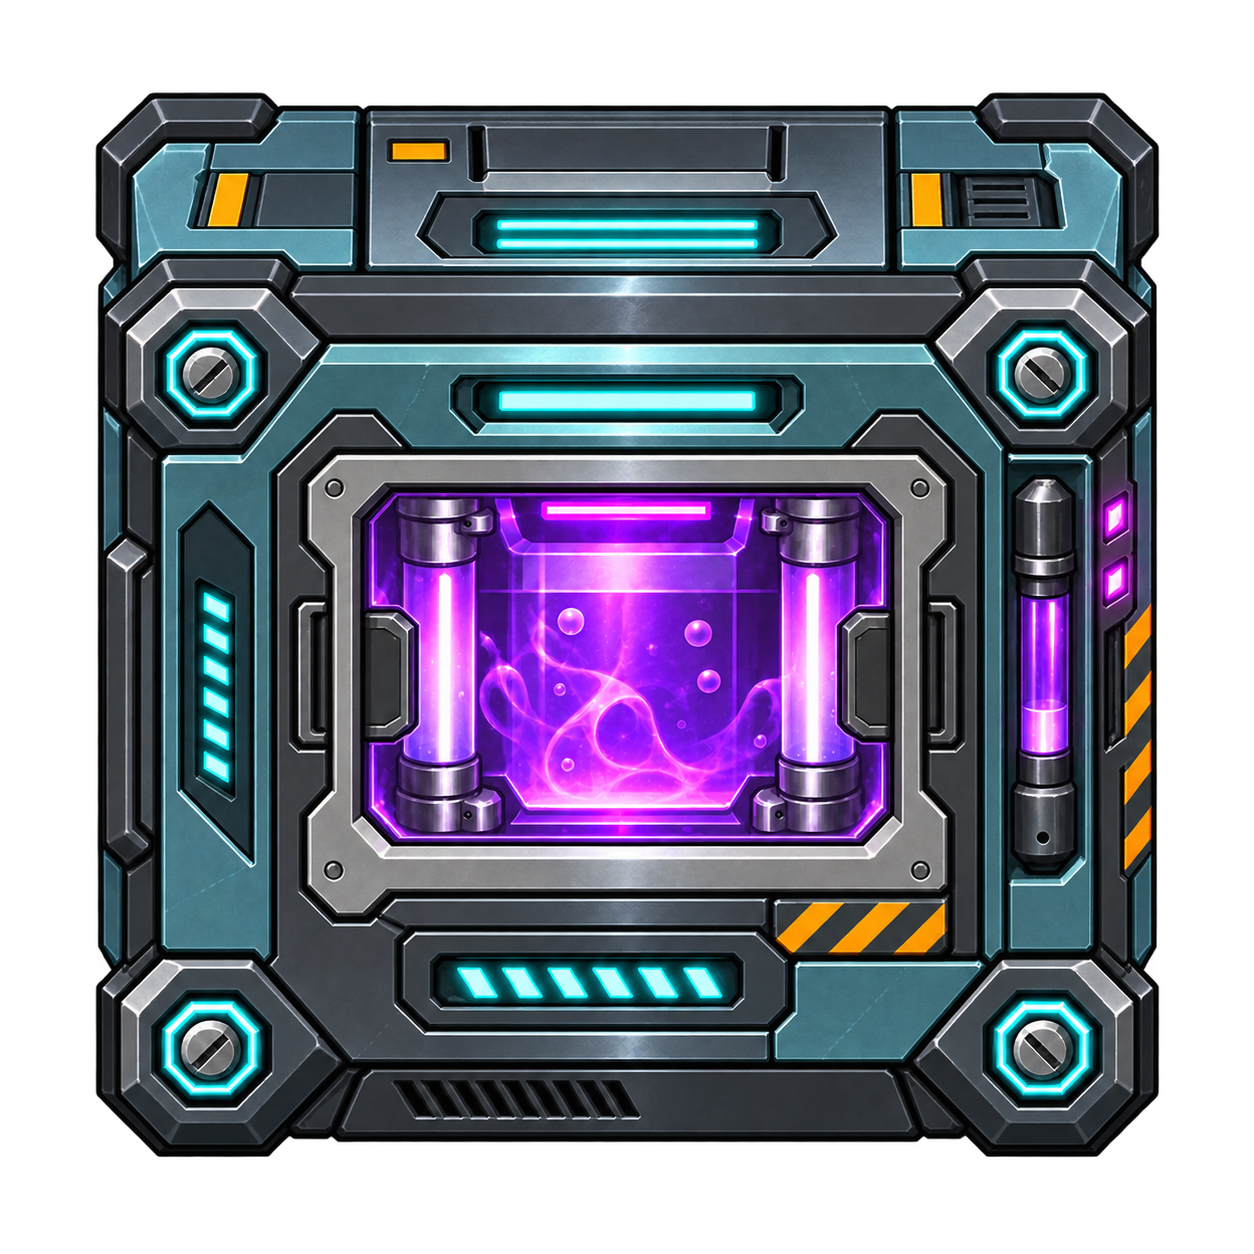
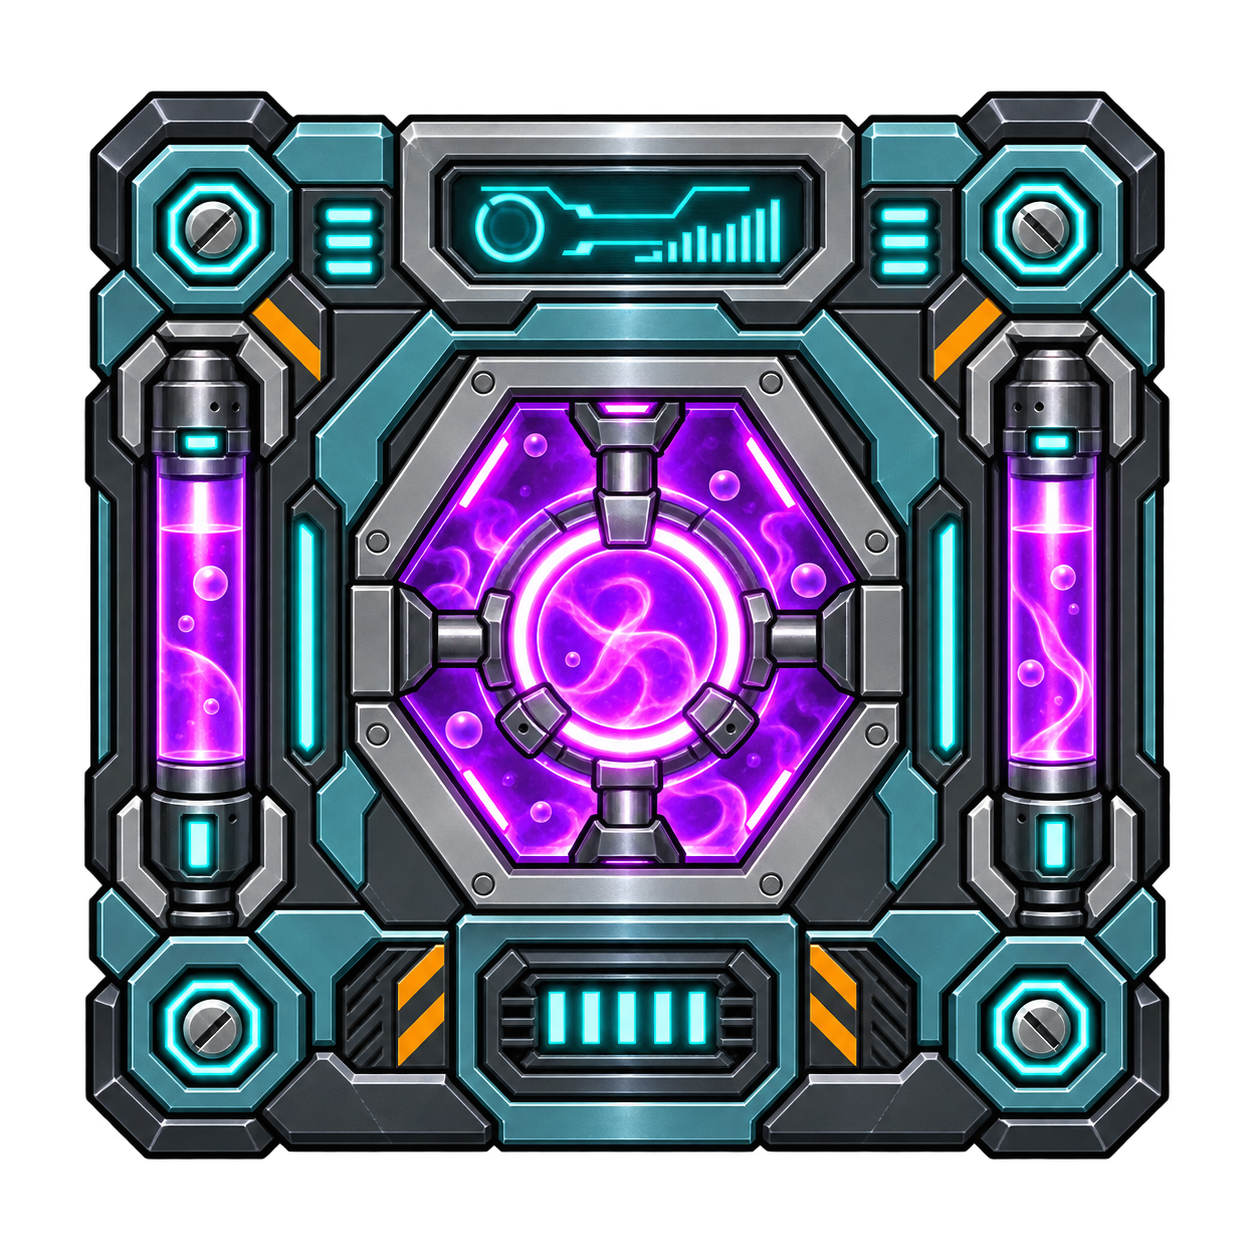
Rename alchemy device to 炼药器 and document item art prompts

diff --git a/docs/game-design/道具生成提示词.md b/docs/game-design/道具生成提示词.md
@@ -1,0 +1,61 @@
+# 道具生成提示词
+
+本文件是经营页、探索页和设备栏道具图标的统一生成参考。生成或替换道具图片时，先选择对应类别的提示词，再补充物品本身的形状、颜色和占格尺寸。最终资源必须放入 `assets/`，并由 `scripts/item_art.gd` 统一加载。
+
+## 通用要求
+
+- 使用内置 `imagegen`，输出真实透明背景的 RGBA PNG。
+- 只生成一个独立物品，主体居中，保持清晰剪影；不生成文字、Logo、水印、场景、人物或手。
+- 图标在 48–96 px 的游戏显示尺寸下仍要能认出主要特征。
+- 目标画布按 96 px/格处理，主体最大填充约 94%，保留透明安全边距。
+- 处理时去除 alpha 小于 12 的生成雾边，不把网格、描边或 UI 文字烘焙进 PNG；运行时描边由 `scripts/item_art.gd` 统一绘制。
+- 生成前确认未旋转占格尺寸；长剑、材料、食物、设备等按照 `assets/items/generation.json` 和本项目物品图鉴的尺寸输出。
+
+## 普通异世界道具
+
+适用于矿石、草药、果实、食物、药剂、背包等自然手工材质道具。当前批次为 `ordinary-fantasy-v2`。
+
+```text
+Standalone ordinary otherworld fantasy game item icon; clean Japanese anime 2D illustration using large graphic color blocks, stable crisp linework, grouped shadows, and a few restrained highlights; natural handmade materials appropriate to the object, such as glass, cork, brass, cloth, leather, wood, baked bread, raw boneless meat, cooked steak, stone, ore and plant matter; clear readable silhouette at gameplay size; centered single object; genuine transparent alpha background; no text, no logo, no watermark, no grid.
+```
+
+根据物品类型补充材质和辨识特征，例如：矿石的晶纹、药剂的液体颜色、草药的叶片层次、面包的烘烤切面、肉类的无骨肉块轮廓。避免为了增加细节而加入密集纹理、雾边或无关装饰。
+
+```text
+Avoid: photorealistic photography, cyberpunk, sci-fi, modern industrial machinery, Y2K hardware, excessive neon, medieval architecture, dirty texture, grain, film grain, painterly texture, watercolor, sketch, blur, depth of field, text artifacts, watermark, extra objects, characters, hands, scenery.
+```
+
+## 科幻设备道具
+
+适用于炼药器和工作台等设备图标。设备图标沿用交易页的绝区零工业 UI 气质，不使用普通道具的木材、黄铜器皿或中世纪锅炉造型。
+
+```text
+Square futuristic urban action RPG machine item icon, polished hard-surface 2D game asset, dark graphite and gunmetal panels, crisp cel-shaded planes, stable hard-surface linework, restrained cyan status lights and orange safety accents, compact modular machine with reinforced corner bolts, vents, panel seams and machined bevels, one isolated object, centered, genuine transparent alpha background, no text, no logo, no watermark.
+```
+
+### 视角与构图（必须遵守）
+
+设备必须使用**完全正面正交视角**：机器正面正对镜头，正面居中且左右对称；只显示正面，不显示顶部、左侧或右侧面；所有外轮廓边保持水平或垂直，不使用等轴、三分之四、透视汇聚或倾斜镜头。机器保持接近正方形的方形轮廓，并在画布四周保留透明边距。
+
+### 工作台分支
+
+```text
+Front-facing square fabrication machine, orange illuminated processing hatch centered on the front panel, orange warning chevrons, cyan horizontal status bars, graphite black and silver metal, symmetrical reinforced corner plates and vents, fully orthographic head-on view, no visible top or side faces.
+```
+
+### 炼药器分支
+
+```text
+Front-facing square alchemy processor, centered sealed inspection chamber with violet chemical energy glow, cyan status bars, small magenta indicators, restrained orange warning stripes, teal gunmetal and graphite panels, symmetrical reinforced corner plates and vents, fully orthographic head-on view, no visible top or side faces, no glass retort or cauldron.
+```
+
+```text
+Avoid: isometric view, three-quarter view, side-dominant perspective, visible top face, visible side face, fisheye distortion, tilted camera, medieval fantasy, wooden workbench, anvil, hammer, brass filigree, cauldron, glass retort, exposed flame, long external pipes, text, logo, watermark, scenery, characters.
+```
+
+## 项目资源与验收
+
+- 普通道具生成记录：`assets/items/generation.json`。
+- 普通道具运行目录：`assets/items/candidates/generated/`；旧批次归档在 `assets/items/archive/`。
+- 当前设备图标：`assets/items/workbench/workbench-machine.png`、`assets/items/workbench/alembic-machine.png`。
+- 生成完成后检查 RGBA 透明角、主体是否贴边、正面是否对称，以及在物品栏小尺寸显示时是否仍能辨认。

diff --git a/README.md b/README.md
@@ -37,9 +37,9 @@
 - 每位顾客带有 100–200 G 的当前资金上限，交易面板显示剩余资金，出售结算不会超过顾客可支付金额。
 - 普通成功操作（支付、结束交易、撤回物品）不弹角落提示；只有错误操作、空间/资金不足和必要指引才显示。玩家出售的物品会移到顾客格子，玩家买入的物品保留在柜台并标记为已支付，需手动拖回库存。顾客仍有预算时交易面板保持打开，并询问“还有没有更多货？”。
 - 买入时检查金币和仓库空间；失败不扣钱、不丢物品；撤回优先恢复原位置。
-- 商品包含材料、食物、矿石、燃料、武器、药剂及杂物；烹饪锅、炼药锅和工作台是占用仓库格子的设备道具。
-- 双击设备打开可拖动窗口（单击仍兼容），工作台、炼药锅、烹饪锅可同时独立打开。烹饪锅保留 8×5 格，隔天将兽肉制成烤肉。
-- 炼药锅（内部仍用 `alembic` ID）分为材料区 8×8、产出区 4×8，底部燃料区 12×2。仅按全部材料的种类、数量精确匹配，与位置、旋转和放入顺序无关；每晚消耗一份完整组合及一份燃料；史莱姆粘液、古藤木分别产出1、2瓶（废水同样按燃料计算数量）。整批成品放不下时不消耗。
+- 商品包含材料、食物、矿石、燃料、武器、药剂及杂物；烹饪锅、炼药器和工作台是占用仓库格子的设备道具。
+- 双击设备打开可拖动窗口（单击仍兼容），工作台、炼药器、烹饪锅可同时独立打开。烹饪锅保留 8×5 格，隔天将兽肉制成烤肉。
+- 炼药器（内部仍用 `alembic` ID）分为材料区 8×8、产出区 4×8，底部燃料区 12×2。仅按全部材料的种类、数量精确匹配，与位置、旋转和放入顺序无关；每晚消耗一份完整组合及一份燃料；史莱姆粘液、古藤木分别产出1、2瓶（废水同样按燃料计算数量）。整批成品放不下时不消耗。
 - 当前两条已知炼药配方：月光草×2→防护药剂；月光草×1＋绯红果×2→力量药剂。图纸仅供查看，不提供摆放引导。未匹配已知配方的组合，产出区与悬浮提示均只显示“？？？”，次日消耗材料生成废水；空锅不生产，产出空间不足不消耗。废水没有药效，不能再次投入炼药。
 - 炼药规则及窗口验证：`godot --headless --path . --script tests/test_alchemy.gd`。移除 `--headless` 并追加 `-- --capture` 可输出炼药窗口截图。
 - 工作台初始赠送一台，附三块赤铜矿和一份史莱姆粘液。分为左侧燃料 4×8、中间材料 8×8、右侧产出 4×8；矿石保留 2×2 占格。每晚处理一份完整配方，产出一件装备。
@@ -82,7 +82,7 @@ godot --path . -- --smoke-ui
 
 柜台物理预览：`godot --path . --fixed-fps 60 --script tests/preview_counter_physics.gd`，输出 `docs/testing/previews/柜台物理.png`；依次投放七件物品，展示连续台面上的轮廓碰撞、自然倾倒与堆叠。
 
-美术由内置 imagegen 生成，提示词和资产路径见 `docs/game-design/美术资源.md`。废弃的一体式概念图仅归档于 `docs/game-design/concepts/`，不参与游戏运行。
+美术由内置 imagegen 生成，场景提示词见 `docs/game-design/玩家主世界画风提示词.md`，道具图标提示词见 `docs/game-design/道具生成提示词.md`，资产路径见 `docs/game-design/美术资源.md`。废弃的一体式概念图仅归档于 `docs/game-design/concepts/`，不参与游戏运行。
 
 玩家主世界的统一画风提示词见 `docs/game-design/玩家主世界画风提示词.md`；生成新的主世界场景时应复用其中的正面与负面提示词。
 

diff --git a/docs/game-design/美术资源.md b/docs/game-design/美术资源.md
@@ -1,6 +1,6 @@
 # 分层美术资源
 
-玩家主世界统一画风提示词：`docs/game-design/玩家主世界画风提示词.md`。主世界及其室内场景生成时复用该文件的风格、正面和负面提示词；交易车的金属室内是当前场景的具体材质落地。
+玩家主世界统一画风提示词：`docs/game-design/玩家主世界画风提示词.md`。主世界及其室内场景生成时复用该文件的风格、正面和负面提示词；道具图标生成规则见 `docs/game-design/道具生成提示词.md`；交易车的金属室内是当前场景的具体材质落地。
 
 工具：内置 imagegen。最终资源保存在项目 assets 内；原始生成文件保留在 Codex generated_images 中。
 
@@ -40,11 +40,11 @@ Game asset: isolated standalone 2D anime visual novel character sprite, a friend
 
 经营页与探索页的 14 种道具已改为独立 RGBA PNG，保存在 assets/items/，并由 scripts/item_art.gd 统一加载。道具占格按实物比例调整：长剑与强化长剑为 2×6，草药和药剂为 2×3，果实与矿石为 2×2，食物为 3×2，设备为 3×3、3×4、4×4；不再存在 1×1 道具。
 
-道具资源按 96 px/格处理，去除 alpha 小于 12 的生成雾边，并将本体限制在目标画布 94% 以内，保留透明安全边距。2×6 长剑需要 6×6 旅行背包；顾客与战利品区不足 6 行时会自动横放，玩家仍可按 R 手动旋转。生成映射、源文件和处理规则见 `assets/items/generation.json`。
+道具资源按 96 px/格处理，去除 alpha 小于 12 的生成雾边，并将本体限制在目标画布 94% 以内，保留透明安全边距。2×6 长剑需要 6×6 旅行背包；顾客与战利品区不足 6 行时会自动横放，玩家仍可按 R 手动旋转。生成提示词见 `docs/game-design/道具生成提示词.md`，生成映射、源文件和处理规则见 `assets/items/generation.json`。
 
 2026-09-12 已将运行时使用的 14 个道具替换为 `ordinary-fantasy-v2` 普通异世界批次，旧生成批次保留在 `assets/items/archive/generated-v1/`。鲜兽肉和香草烤肉均为无骨肉块/肉排，不再出现骨头。
 
-本轮工作台与炼药锅补充了透明 PNG 图标：`assets/items/workbench/alembic-machine.png`、`workbench-machine.png`、`slime_mucus.png`、`ancient_wood.png`。其中两台设备统一为绝区零风格的方形金属机器，采用完全正面正交视角：正面居中对称，不显示顶部或左右侧面。工作台使用橙色加工舱，炼药锅使用紫色能量舱；不再使用中世纪锅炉、木制工作台或玻璃炼金器皿造型。史莱姆粘液来自史莱姆掉落，古藤木来自古木精掉落。
+本轮工作台与炼药器补充了透明 PNG 图标：`assets/items/workbench/alembic-machine.png`、`workbench-machine.png`、`slime_mucus.png`、`ancient_wood.png`。其中两台设备统一为绝区零风格的方形金属机器，采用完全正面正交视角：正面居中对称，不显示顶部或左右侧面。工作台使用橙色加工舱，炼药器使用独立的紫色化学处理舱；不再使用中世纪锅炉、木制工作台或玻璃炼金器皿造型。史莱姆粘液来自史莱姆掉落，古藤木来自古木精掉落。
 
 ## 交易页交互道具更新（2026-09-12）
 

diff --git a/assets/items/README.md b/assets/items/README.md
@@ -15,19 +15,19 @@
 | 小背包 | 3×4 | 容器本体 |
 | 烹饪锅 | 3×3 | 设备 |
 | 炼药器 | 3×4 | 设备 |
-| 熔炉 | 4×4 | 设备 |
+| 工作台 | 4×4 | 设备 |
 
 绯红果为唯一的 1×1 单格材料；其余道具按用途保留更大的占格。旅行背包为 6×6，以保证 2×6 长剑可进入探索玩法。
 
 ## 处理规则
 
-- 生成图要求真实透明背景、单个物品、清晰剪影、稳定线稿、大色块、成组阴影和少量高光；道具主体采用普通异世界的自然手工材质，不使用科技、科幻、赛博朋克或现代工业设计。肉类统一为无骨肉块，肉排只表现肉排本身。
+- 普通道具生成图要求真实透明背景、单个物品、清晰剪影、稳定线稿、大色块、成组阴影和少量高光；道具主体采用普通异世界的自然手工材质，不使用科技、科幻、赛博朋克或现代工业设计。肉类统一为无骨肉块，肉排只表现肉排本身。炼药器和工作台使用 `docs/game-design/道具生成提示词.md` 的科幻设备分支，采用完全正面正交视角。
 - 处理时忽略 alpha 小于 12 的近透明雾边，按目标占格比例放入 96 px/格的透明画布。
 - 物品本体最大填充画布 94%，保留约 6% 安全边距，避免贴边和拖动时裁切。
 - 运行时由 `scripts/item_art.gd` 统一绘制约 1.5 px 的深黑外轮廓，经营场景与探索场景保持一致；描边不烘焙进源 PNG，避免重复叠加。
 - 原始生成图保留在 Codex generated_images；项目实际引用的是本目录下的处理后 PNG。
 
-生成记录与源文件映射见 generation.json。
+生成提示词统一见 `docs/game-design/道具生成提示词.md`；生成记录与源文件映射见 `generation.json`。
 
 ## 当前素材批次
 

diff --git a/docs/game-design/工作台开发说明.md b/docs/game-design/工作台开发说明.md
@@ -20,7 +20,7 @@
 - `scripts/trade_state.gd`：三区约束、隔天生产、实例耐久、交易装箱。
 - `scripts/workbench_view.gd`：工作台外框与只读图纸。
 - `scripts/shop.gd`：三区拖放、图纸弹窗、成品预览与商人供货。
-- `assets/items/workbench/`：新增物品与炼药锅、工作台 PNG 图标；两台机器均为统一的方形科幻工业外形，并使用完全正面正交视角。
+- `assets/items/workbench/`：新增物品与炼药器、工作台 PNG 图标；两台机器均为统一的方形科幻工业外形，并使用完全正面正交视角。
 - 新增生成素材：`alembic-machine.png`、`workbench-machine.png`、`slime_mucus.png`、`ancient_wood.png` 与 `assets/exploration/ancient_tree.png`。
 
 验证记录见 `docs/testing/工作台验证.md`。

diff --git a/docs/testing/工作台验证.md b/docs/testing/工作台验证.md
@@ -2,7 +2,7 @@
 
 - 工作台逻辑测试：468 项检查通过。
 - 工作台窗口、拖放、图纸、商人供货及成品出售：41 项检查通过。
-- 炼药锅规则测试：159 项检查通过。
+- 炼药器规则测试：159 项检查通过。
 - 现有交易/库存测试 110 项、探索测试 46 项通过。
 - 已实际渲染检查空白、待加工、成品、图纸四个状态；截图位于 `docs/testing/previews/`。
 - 旧弹窗测试有 1 条电脑/手机尺寸断言失败：其期待手机 160×104，而现有场景约为 66×43。旧柜台物理测试有 3 条落点/堆叠断言失败，部分落点阈值仍低于当前 485 的台面基线。本次未修改这些场景尺寸或柜台物理实现，未将这些测试标记为通过。

diff --git a/AGENTS.md b/AGENTS.md
@@ -3,6 +3,7 @@
 - 优先复用现有代码、UI 和交互，不要重复造轮子。
 - 相信自己的代码质量，仅涉及复杂功能逻辑时需要进行测试，小范围 UI 调整不需要测试。
 - 游戏 UI 不要做多余提示文本。保留必要的名称、数值、操作和错误反馈；不要添加重复说明、显而易见的操作引导或装饰性提示文案。
+- 生成或替换道具、设备和机器图标时，必须先参考 `docs/game-design/道具生成提示词.md`，沿用对应类别的正面/负面提示词、视角和透明背景处理规则；若风格规则发生变化，需同步更新该文档。
 
 ## 文档归类
 

diff --git a/docs/game-design/wiki/物品图鉴.md b/docs/game-design/wiki/物品图鉴.md
@@ -48,7 +48,7 @@
 | --- | --- | ---: | ---: | --- |
 | 小背包 | 容器 | 0 G | 3×4 | 打开 6×6 旅行背包；不能放入自身 |
 | 烹饪锅 | 设备 | 120 G | 3×3 | 跨日把鲜兽肉制成香草烤肉 |
-| 炼药锅 | 设备 | 180 G | 3×4 | 按材料数量与燃料跨日炼药 |
+| 炼药器 | 设备 | 180 G | 3×4 | 按材料数量与燃料跨日炼药 |
 | 工作台 | 设备 | 240 G | 4×4 | 按矿石形状与燃料跨日制作装备 |
 
 设备只能存放在商车橱柜，不能放进旅行背包、顾客背包或柜台。

diff --git a/docs/game-design/wiki/README.md b/docs/game-design/wiki/README.md
@@ -8,7 +8,7 @@
 
 1. 整理商车库存，把武器、食物和药剂装入旅行背包。
 2. 开门营业，接待顾客并在柜台上完成买入、出售和议价。
-3. 将原料放入烹饪锅、炼药锅或工作台。
+3. 将原料放入烹饪锅、炼药器或工作台。
 4. 关闭卷帘门并在卧铺休息，推进到下一天并结算加工。
 5. 从车门进入野外，战斗、拾取材料，再返回商车继续经营。
 

diff --git a/docs/game-design/wiki/加工与配方.md b/docs/game-design/wiki/加工与配方.md
@@ -14,7 +14,7 @@
 - 跨日效果：每份鲜兽肉变为一份香草烤肉，不需要燃料。
 - 烹饪会保留物品原来的占格方向。
 
-## 炼药锅
+## 炼药器
 
 - 设备尺寸：3×4。
 - 材料区：8×8；产出区：4×8；燃料区：12×2。
